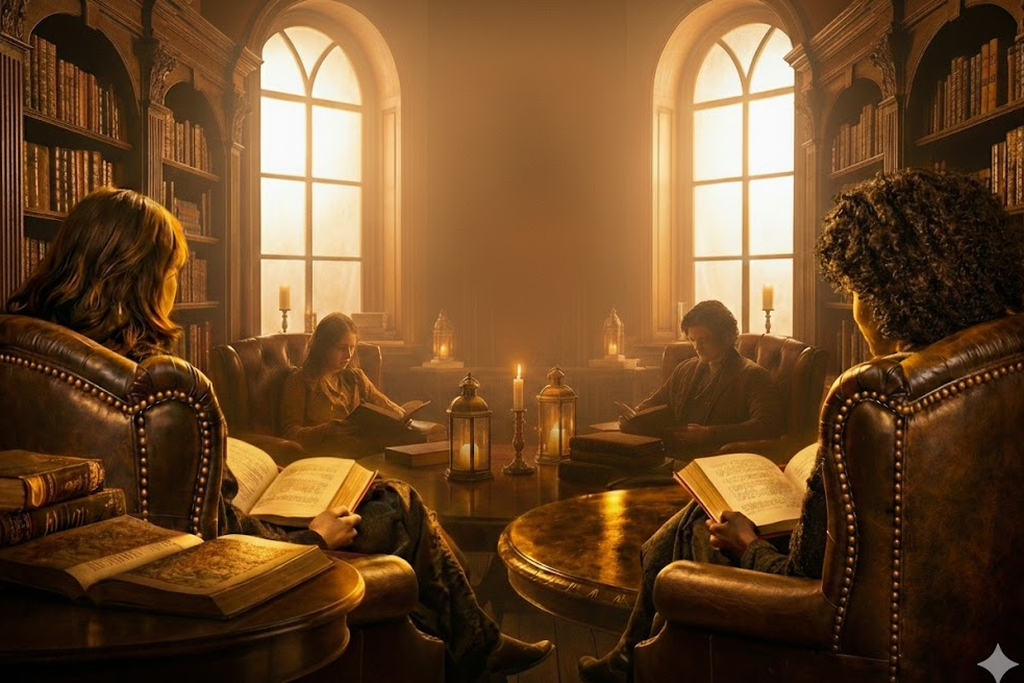
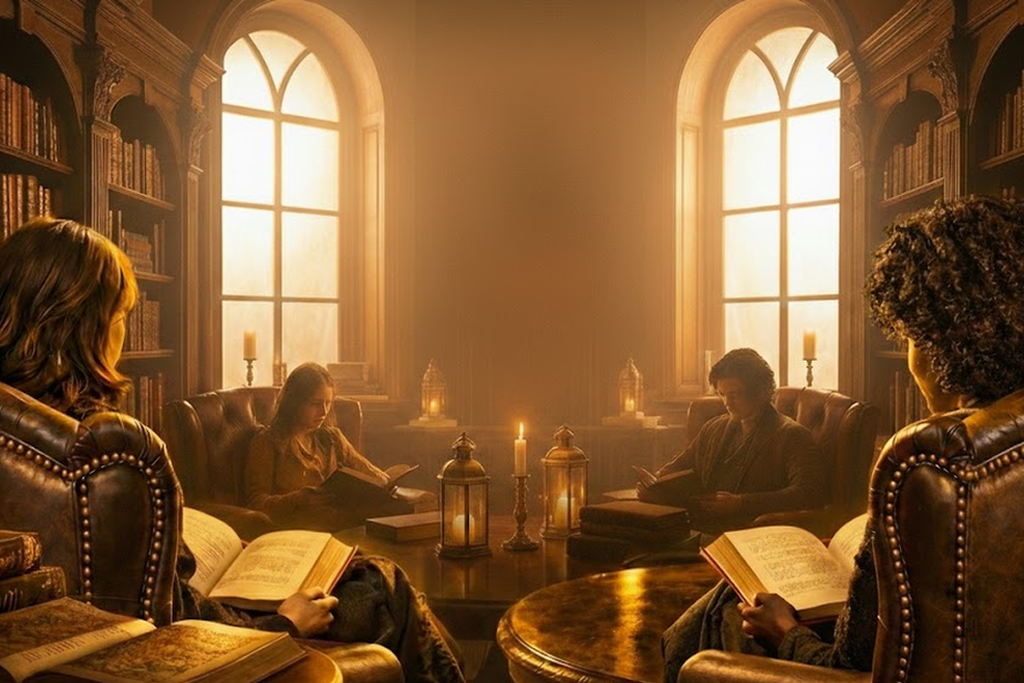
Add OpenAI API integration, fix watermarks, improve mobile UX
- Removed Gemini watermarks from images (96% crop)
- Increased logo size from 450px to 600px
- Added OpenAI API integration via /api/chat.js
- Improved mobile responsiveness for chat interface
- Added better mobile styles for small screens

diff --git a/styles.css b/styles.css
@@ -1807,6 +1807,24 @@ h1, h2, h3, h4, h5, h6 {
     .event-meta {
         justify-content: center;
     }
+
+    /* Mobile chat improvements */
+    .chat-messages {
+        min-height: 300px;
+        max-height: 400px;
+    }
+
+    .chat-input-area input {
+        font-size: 16px; /* Prevents zoom on iOS */
+    }
+
+    .chat-sidebar {
+        margin-top: var(--space-lg);
+    }
+
+    .message {
+        max-width: 100%;
+    }
 }
 
 @media (max-width: 480px) {
@@ -1820,6 +1838,29 @@ h1, h2, h3, h4, h5, h6 {
 
     .section-header h2 {
         font-size: 1.8rem;
+    }
+
+    /* Mobile chat for small screens */
+    .chat-messages {
+        min-height: 250px;
+        max-height: 350px;
+        padding: var(--space-sm);
+    }
+
+    .message {
+        font-size: 0.9rem;
+    }
+
+    .chat-header {
+        padding: var(--space-sm);
+    }
+
+    .chat-title {
+        font-size: 1rem;
+    }
+
+    .send-button {
+        padding: 12px 16px;
     }
 }
 
